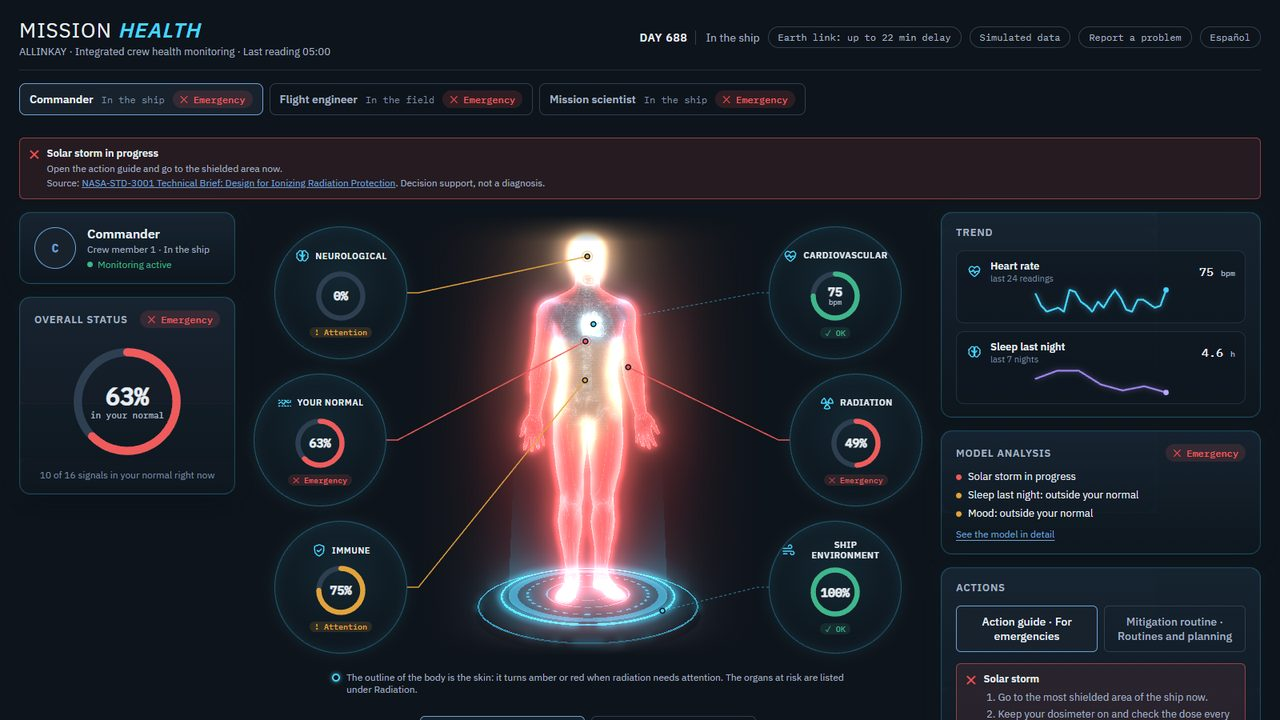
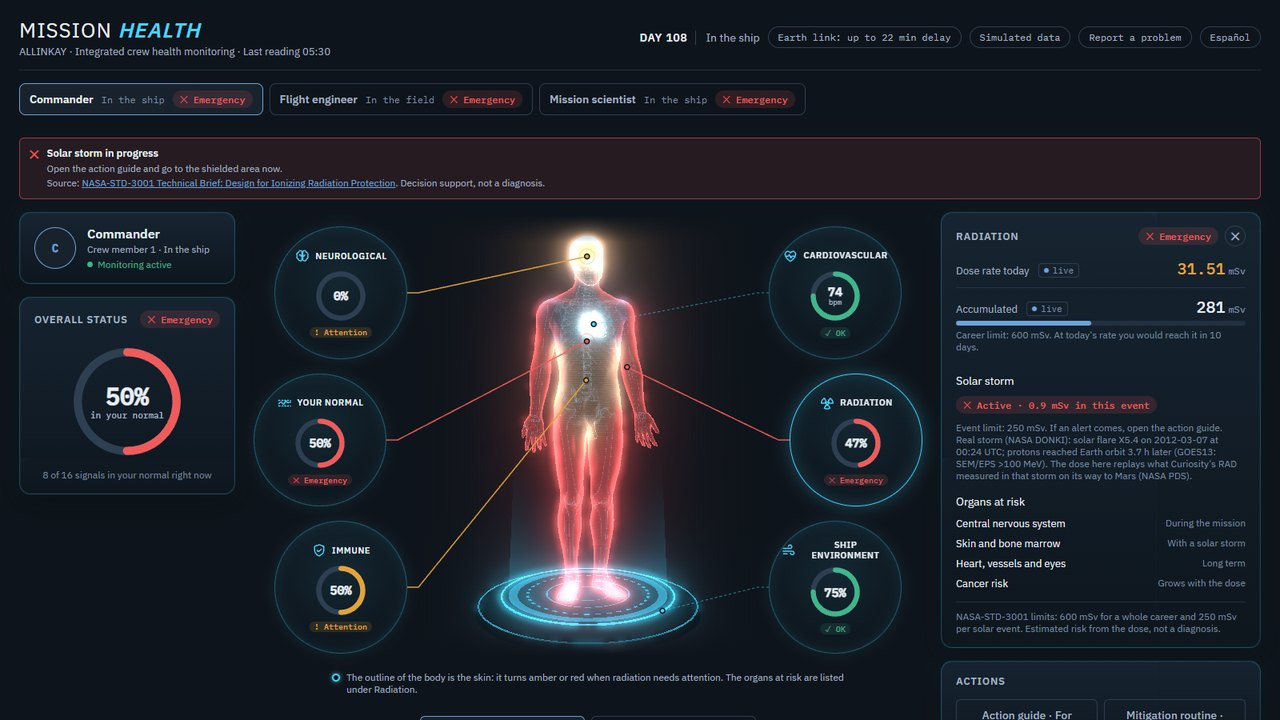
Show the real solar storm in the 30-second mission story
Acts 5 and 6 are new captures of the demo during the storm that Curiosity's RAD measured on 8 March 2012: the emergency with the radiation detail open (31.5 mSv per day, the storm named from NASA DONKI) and the action guide. Act 5 now says the storm is real, and act 7 says which data is real.

diff --git a/site/index.html b/site/index.html
@@ -103,8 +103,8 @@
               <div class="caption"><p><strong>Confirmed.</strong> One bad night is not an alarm. A change must hold: 10 live readings in a row, or 3 of the last 4 days.</p></div>
             </section>
             <section class="act act-image act-alert" data-act data-duration="4.5" aria-roledescription="slide" aria-label="Act 5 of 7: Solar storm">
-              <img src="images/story-5-storm.jpg" width="1280" height="720" alt="A solar storm emergency: the alert at the top for the whole crew and the body's outline glowing red." loading="lazy" />
-              <div class="caption"><p><strong>Solar storm.</strong> The emergency reaches the whole crew at once, and the skin's outline turns red.</p></div>
+              <img src="images/story-5-storm.jpg" width="1280" height="720" alt="The solar storm of 8 March 2012 as Curiosity's RAD measured it: the emergency at the top for the whole crew, the body's outline glowing red and the radiation detail naming the real storm." loading="lazy" />
+              <div class="caption"><p><strong>A real storm.</strong> The dose Curiosity measured on its way to Mars, 8 March 2012: ten times the usual, and the whole crew gets the emergency.</p></div>
             </section>
             <section class="act act-image act-alert" data-act data-duration="4" aria-roledescription="slide" aria-label="Act 6 of 7: What to do">
               <img src="images/story-6-guide.jpg" width="1280" height="720" alt="The action guide for a solar storm, with four numbered steps." loading="lazy" />
@@ -115,7 +115,7 @@
                 <p class="type-big">Measured, not promised.</p>
                 <p class="type-small">In 200 simulated people over 90 days: <strong>1 false alarm every 12 astronaut-years</strong> in the ship, none in 55 in the field, and <strong>1195 of 1200</strong> changes caught within 10 days.</p>
               </div>
-              <div class="caption"><p><strong>The result.</strong> Decision support for the crew and the flight surgeon. Synthetic data, not a diagnosis.</p></div>
+              <div class="caption"><p><strong>The result.</strong> Decision support, not a diagnosis. A simulated crew, with real NASA radiation and lab data.</p></div>
             </section>
           </div>
 
